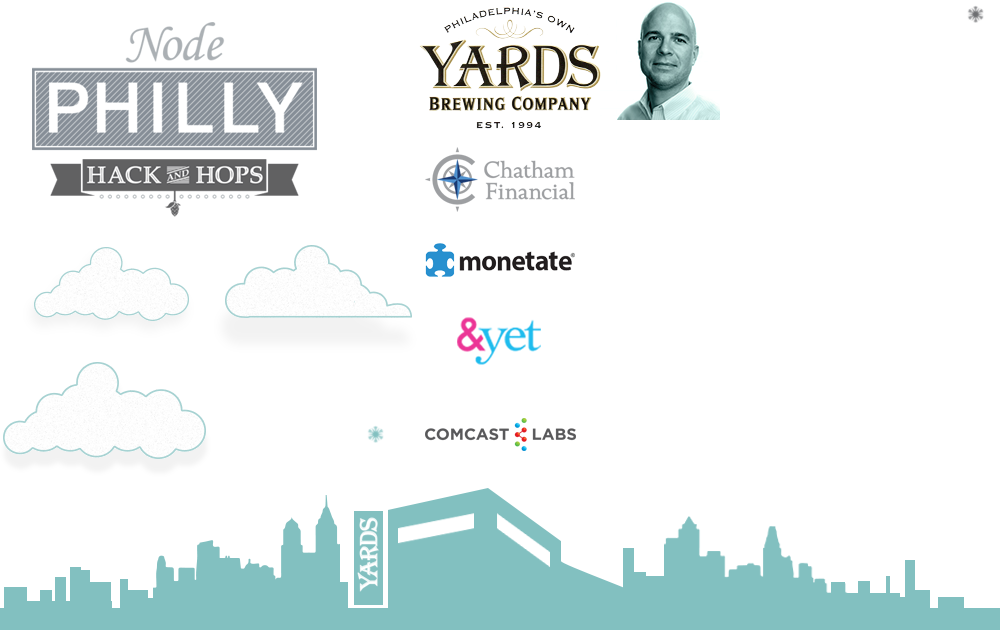
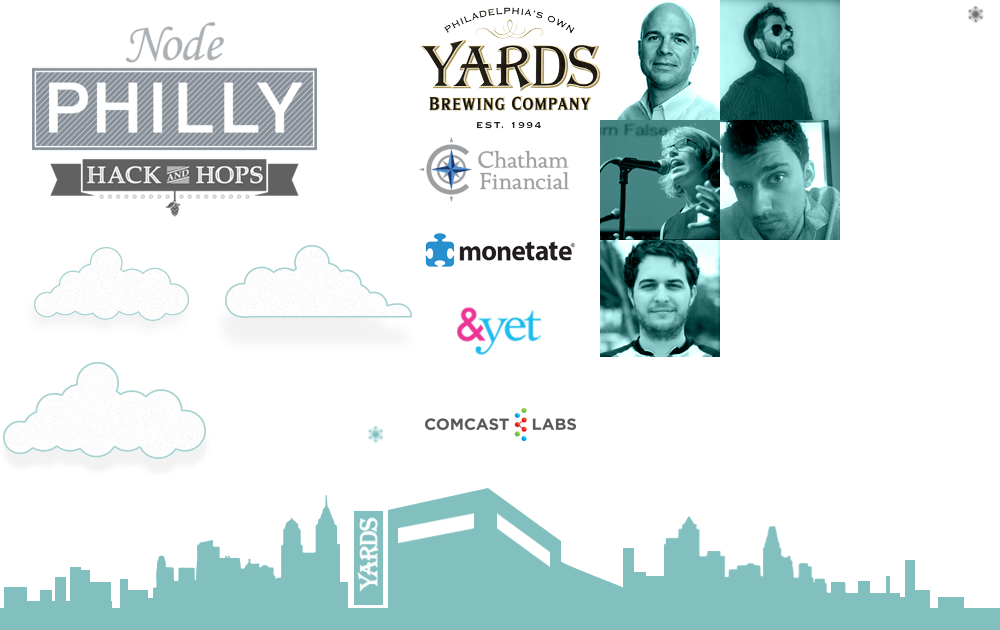
finalized site. speakers info in. tickets live. go time.

Changed region(s): [[0.403, 0.0, 0.837, 0.573], [0.434, 0.4825, 0.558, 0.573], [0.403, 0.6635, 0.589, 0.7238]]

diff --git a/public/stylesheets/style.css b/public/stylesheets/style.css
@@ -936,7 +936,7 @@ body.hackandhops section.feature {
   position: absolute;
   left: 0;
   right: 0;
-  top: 27%;
+  top: 25%;
   border-bottom: none;
   -webkit-transition: all 0.5s linear;
   -moz-transition: all 0.5s linear;
@@ -973,7 +973,7 @@ body.hackandhops section.feature section.viewport section.overview article.two p
   display: block;
   text-align: left;
   line-height: 28px;
-  margin: 10px 0 0 0;
+  margin: 10px 0 -15px 0;
 }
 body.hackandhops section.feature section.viewport section.overview article.two h1 {
   font-size: 25px;
@@ -985,6 +985,7 @@ body.hackandhops section.feature section.viewport section.overview article.two h
   color: #82c0c0;
   font-weight: 500;
   margin: 0;
+  text-transform: none;
 }
 body.hackandhops section.feature section.viewport section.overview article.two article {
   float: left;
@@ -999,7 +1000,7 @@ body.hackandhops section.feature section.viewport section.overview article.two a
   margin: 0 0 0 0;
 }
 body.hackandhops section.feature section.viewport section.overview article.two article.details p {
-  margin: 0 0 5px 0;
+  margin: 10px 0 15px 0;
 }
 body.hackandhops section.feature section.viewport section.overview article.three .speakersGrid {
   width: 999px;
@@ -1027,6 +1028,10 @@ body.hackandhops section.feature section.viewport section.overview article.three
   border: 1px solid #82c0c0;
   margin: 0 20px 0 0;
   position: relative;
+}
+body.hackandhops section.feature section.viewport section.overview article.three .speakerTile p a,
+body.hackandhops section.feature section.viewport section.overview article.three .speakerTile p p {
+  display: inline;
 }
 body.hackandhops section.feature section.viewport section.overview article.three .speakerBriefText {
   height: 100%;
@@ -1056,11 +1061,15 @@ body.hackandhops section.feature section.viewport section.overview article.three
   font-size: 20px;
   margin: 15px 0 15px 0;
 }
+body.hackandhops section.feature section.viewport section.overview article.three .speakerExpanded article.speakerinfo h1[name="BryanPaluch"] {
+  font-size: 18px;
+}
 body.hackandhops section.feature section.viewport section.overview article.three .speakerExpanded article.speakerinfo a.speakercontact {
   display: inline;
 }
 body.hackandhops section.feature section.viewport section.overview article.three .speakerExpanded article.speakerinfo header {
   width: 95%;
+  min-height: 115px;
   margin: 15px auto 5px auto;
   padding: 0 0 15px 0;
   border-bottom: 1px solid #82c0c0;
@@ -1113,16 +1122,16 @@ body.hackandhops section.feature section.viewport section.overview article.three
   background-position: -600px 0;
 }
 body.hackandhops section.feature section.viewport section.overview article.three div.headshot[name="PamSelle"] {
-  background-position: -600px 0;
+  background-position: -600px -120px;
 }
 body.hackandhops section.feature section.viewport section.overview article.three div.headshot[name="BryanPaluch"] {
-  background-position: -600px 0;
+  background-position: -600px -240px;
 }
 body.hackandhops section.feature section.viewport section.overview article.three div.headshot[name="JordanSantell"] {
-  background-position: -600px 0;
+  background-position: -720px 0;
 }
 body.hackandhops section.feature section.viewport section.overview article.three div.headshot[name="ChrisAlfano"] {
-  background-position: -600px 0;
+  background-position: -720px -120px;
 }
 body.hackandhops section.feature section.viewport section.overview article.three h1 {
   text-transform: none;
@@ -1134,9 +1143,8 @@ body.hackandhops section.feature section.viewport section.overview article.three
 }
 body.hackandhops section.feature section.viewport section.overview article.four article.sponsor {
   width: 22%;
-  height: 95%;
+  height: 99%;
   float: left;
-  word-wrap: wrap;
   margin: 0 0 0 0;
 }
 body.hackandhops section.feature section.viewport section.overview article.four article.sponsor:nth-child(2) {
@@ -1152,8 +1160,8 @@ body.hackandhops section.feature section.viewport section.overview article.four 
 body.hackandhops section.feature section.viewport section.overview article.four article.sponsor div.andyet,
 body.hackandhops section.feature section.viewport section.overview article.four article.sponsor div.comcastlabs {
   width: 160px;
-  height: 80px;
-  margin: 15px auto 0 auto;
+  height: 60px;
+  margin: 0 0 0 15px;
   background-image: url("/imgs/nodephilly-hackandhops.png");
   background-repeat: no-repeat;
 }
@@ -1163,7 +1171,7 @@ body.hackandhops section.feature section.viewport section.overview article.four 
 body.hackandhops section.feature section.viewport section.overview article.four article.sponsor p {
   display: block;
   text-align: left;
-  line-height: 28px;
+  line-height: 24px;
   margin: 15px 0 0 0;
 }
 body.hackandhops section.feature section.viewport section.overview article.four article.sponsor div.chathamfinancial {
@@ -1176,7 +1184,7 @@ body.hackandhops section.feature section.viewport section.overview article.four 
   background-position: -420px -300px;
 }
 body.hackandhops section.feature section.viewport section.overview article.four article.sponsor div.comcastlabs {
-  background-position: -420px -390px;
+  background-position: -420px -400px;
 }
 body.hackandhops section.feature section.viewport section.overview article div.eventbrite {
   float: right;
@@ -1425,8 +1433,8 @@ footer.hackandhops div.content {
     bottom: -170px;
   }
   body.hackandhops section.feature {
-    top: 34%;
-    height: 400px;
+    top: 30%;
+    height: 420px;
   }
   body.hackandhops section.randomclouds div.floater {
     background-image: url("/imgs/nodephilly-hackandhops.png");
